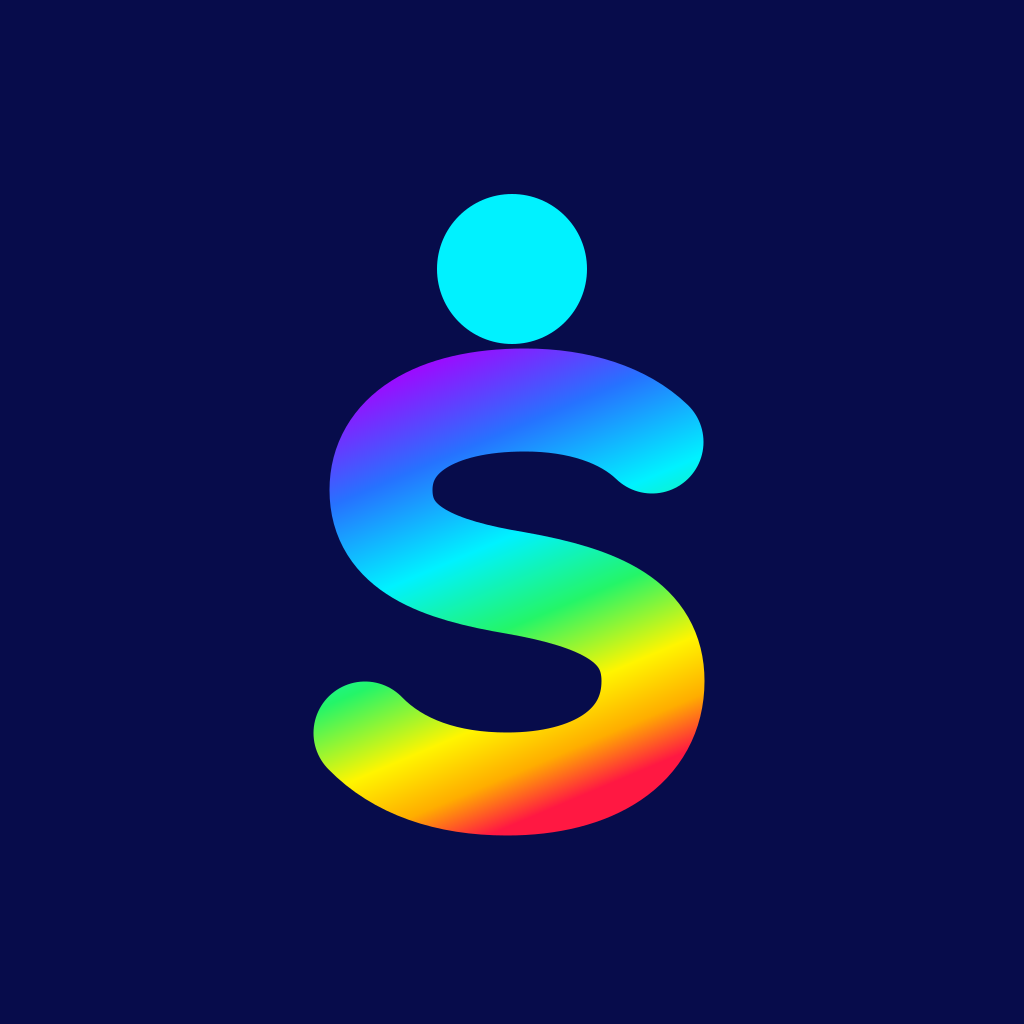
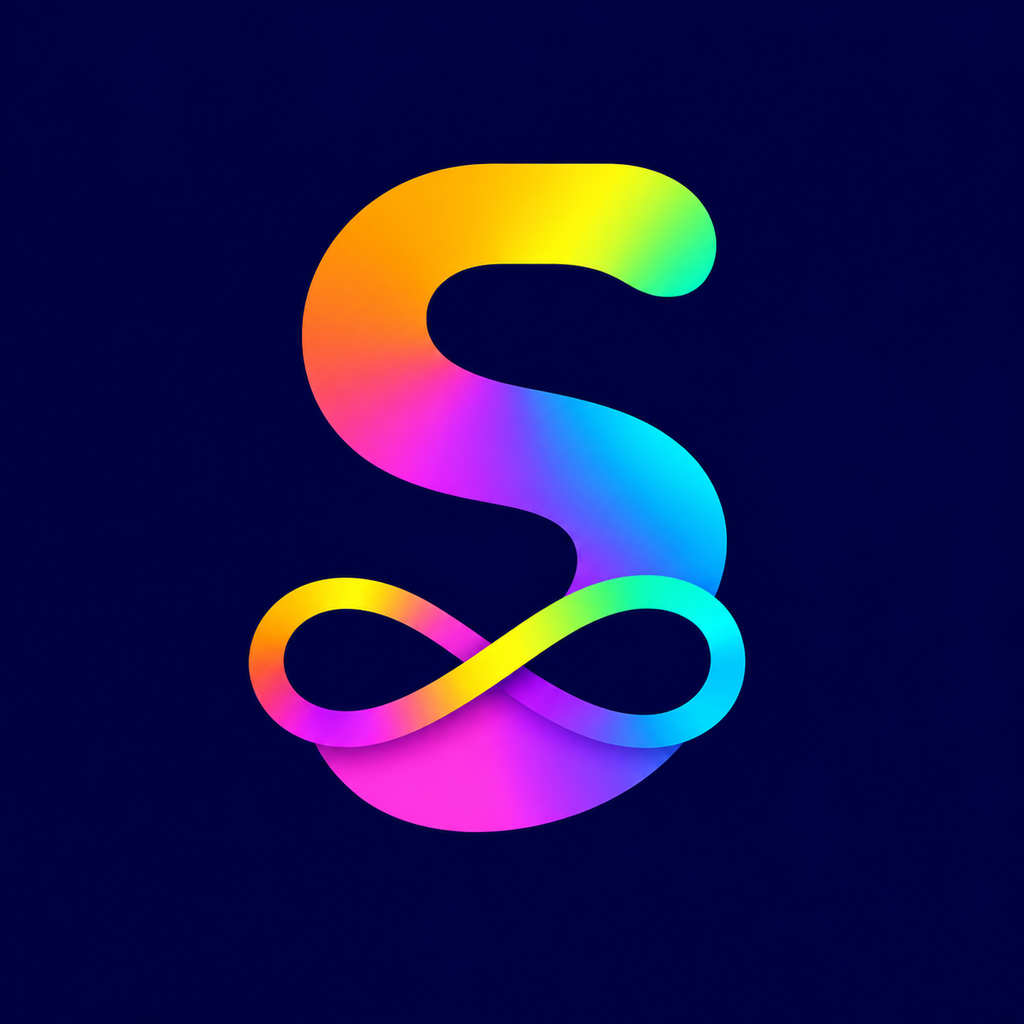
Aplica ícone S com infinito menor aprovado no TEA Sensorial

Changed region(s): [[0.2188, 0.1562, 0.75, 0.8438]]

diff --git a/README.md b/README.md
@@ -158,3 +158,7 @@ Sugestões, traduções e relatos de problemas são bem-vindos. Abra uma issue c
 ## Verificações automáticas
 
 O GitHub Actions executa checagem de tipos, testes de banco e perfil e exportação do bundle Android nos pushes e pull requests.
+
+## Identidade visual
+
+O ícone usa a letra **S** com o infinito entrelaçado, no mesmo estilo do TEA Passos. A imagem original aprovada está em `assets/icon-source.png`; as versões do lançador Android e dos catálogos em português e inglês derivam dela. O ícone adaptável inclui margem para as máscaras dos lançadores.
